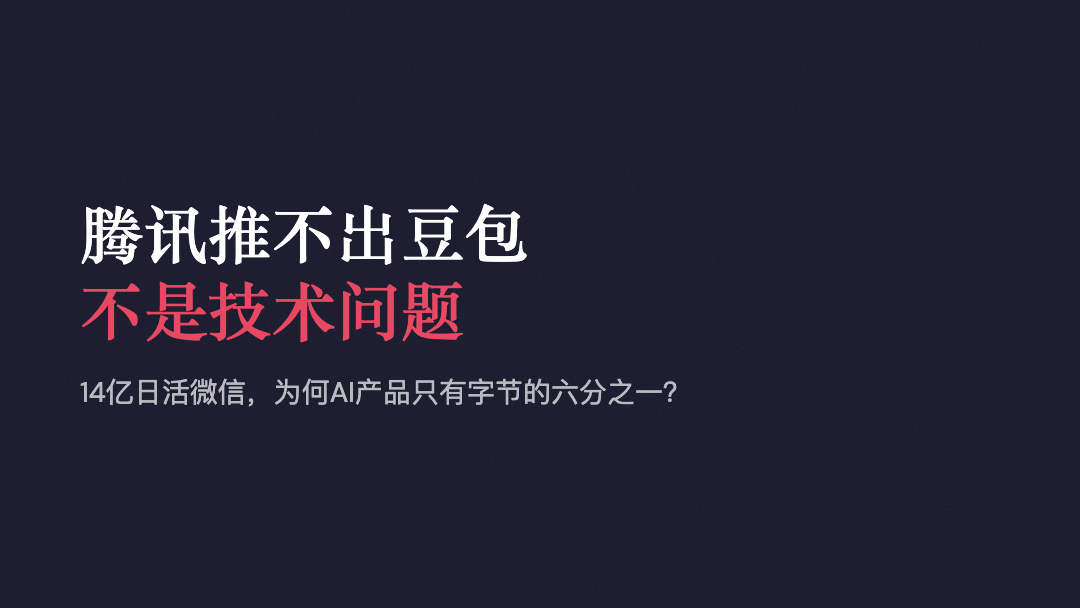
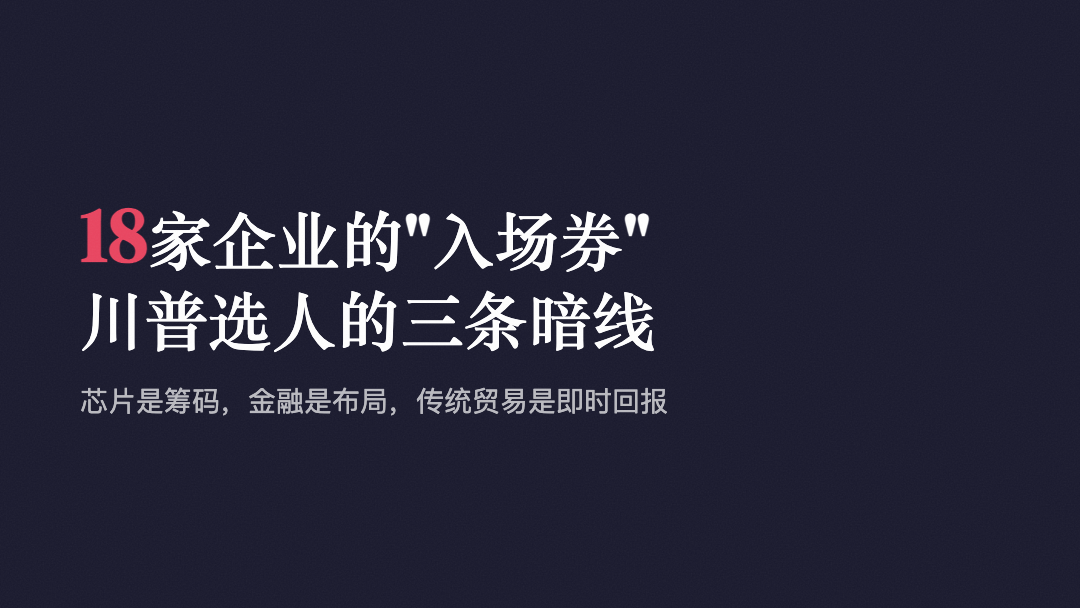
feat：gzh-writes：增加内容加租

Changed region(s): [[0.0611, 0.3438, 0.6111, 0.5938], [0.0611, 0.625, 0.6417, 0.6875]]

diff --git a/docs/gzh/2026-05-19-川普访华18集团暗线.md b/docs/gzh/2026-05-19-川普访华18集团暗线.md
@@ -1,0 +1,36 @@
+---
+title: 18家企业的"入场券"：川普选人的三条暗线
+date: 2026-05-19
+tags: [中美关系, 川普访华, 商业外交, 芯片]
+summary: 川普带谁访华不是随机的，18家企业对应三条谈判暗线，名单本身就是摊开的底牌。
+---
+
+川普选谁坐上访华专机，比他在北京说了什么更重要。
+
+这次随行的18家企业，媒体盯着马斯克和黄仁勋的流量，但真正值得看的是名单的结构——「4家芯片、5家金融、剩下全是传统贸易大户」。这不是一个商业代表团，这是一张摊在谈判桌上的底牌清单。
+
+**第一条暗线：芯片天团是"示好"还是"要价"？**
+
+英伟达、高通、美光、高意，四家半导体企业同时出现。过去三年，美国对中国芯片禁令层层加码，这四家恰恰是禁令中受损最严重的。英伟达被禁止向中国出售高端AI芯片后，黄仁勋多次公开表达不满；美光被中国反制审查，丢掉了数十亿美元订单；高通的中国手机客户正在加速去美国化。
+
+把这四家带来，川普的信号很明确：我手里有你们想要的东西，但得谈条件。**芯片不是礼物，是筹码**。
+
+更耐人寻味的是黄仁勋"临时加入"的细节。川普自己说黄仁勋"没提前申请"就来了——这说明英伟达的焦虑已经到了不请自来的程度。一个万亿市值的公司CEO，愿意当"编外人员"蹭上飞机，足见中国市场对英伟达意味着什么。
+
+**第二条暗线：华尔街来了五个人，不是来旅游的。**
+
+摩根大通戴蒙、高盛、花旗、黑石苏世民、贝莱德芬克——美国金融业的半壁江山坐在了北京。
+
+这个配置对应的是一个很现实的问题：**中国金融开放的节奏和尺度**。外资券商牌照、资管市场准入、跨境资本流动规则，每一项都是几百亿美元级别的生意。苏世民过去十年在中国的布局人尽皆知，芬克的贝莱德刚拿到中国公募牌照不久——这些人来，不是握手拍照，是来盯着具体条款的。
+
+金融巨头的出现还透露另一层意思：华尔街在押注中美不会彻底脱钩。资本永远比政客诚实。
+
+**第三条暗线：波音、埃克森美孚、辉瑞——老生意才是硬通货。**
+
+舆论聚光灯打在科技巨头身上，但波音、埃克森美孚、陶氏化学、辉瑞这些"老面孔"才是中美贸易的压舱石。中国是波音最大的海外市场之一，过去几年空客趁机抢了大量订单；能源合作涉及LNG长协；医药准入关乎辉瑞数百亿的中国销售预期。
+
+这些传统行业代表的入选逻辑很直白：**能立刻签约、能立刻产生贸易数字的，优先上飞机。**川普需要带回可以量化的"成果"，而不是"两国领导人就AI发展交换了意见"这种空话。
+
+所以，这份名单的选人逻辑已经很清楚了：「芯片是谈判筹码，金融是长期布局，传统贸易是即时回报」。三条线各有分工，每一家企业的"入场券"都不是白给的。
+
+问题是：中国这边看到的，也是同一张牌。当对方把底牌摊开了打，这场谈判到底是更容易了，还是更难了？

diff --git a/docs/gzh/2026-05-19-OpenAI马斯克官司.md b/docs/gzh/2026-05-19-OpenAI马斯克官司.md
@@ -1,0 +1,40 @@
+---
+title: 马斯克输了1500亿的官司，他可能从没想赢
+date: 2026-05-19
+tags: [AI, OpenAI, 马斯克, 硅谷]
+summary: 1500亿诉讼90分钟被驳回，但马斯克真正想要的东西已经拿到了
+---
+
+马斯克输了。1500亿美元的世纪诉讼，陪审团只花了90分钟就全票驳回。
+
+90分钟什么概念？不够打完一局Dota 2——讽刺的是，正是2017年OpenAI的AI打赢Dota职业选手那场演示，种下了这场官司的种子。
+
+但你真觉得马斯克在乎这个判决？
+
+**一、他"故意"告晚了**
+
+案子被驳回的理由不是"你说的不对"，而是"你告晚了"。加州法律规定违反慈善信托的诉讼时效是3年，不当得利是2年。OpenAI 2021年就完成了营利化转型，马斯克那时候就知道——他自己发短信给奥特曼说"200亿估值是挂羊头卖狗肉"。然后他等了三年，2024年才起诉。
+
+一个能把火箭送上火星的人，会不知道诉讼时效这种基本法律常识？
+
+「这场官司从第一天起就不是为了赢，而是为了让OpenAI在公众面前被扒一层皮。」
+
+**二、庭审炸出的才是真正的"战利品"**
+
+三周庭审，11天证词，数十位硅谷大佬轮番上阵。这场"注定失败"的诉讼炸出了什么？
+
+Brockman零成本套现**300亿美元**股权，私人日记里赫然写着"什么能让我达到10亿美元"。奥特曼被问"你是否完全值得信任"时没能说出"是"。Murati指控公司内部"混乱与不信任"。甚至OpenAI早期曾考虑用加密货币融资这种荒诞往事都被翻了出来。
+
+这些信息原本锁在保密协议和高管邮箱里。现在，全世界都知道了。
+
+**三、马斯克真正的战场从来不在法庭**
+
+再看他这边的时间线：xAI和SpaceX今年4月秘密提交了IPO申请，合并后估值**1.25万亿美元**；xAI同时训练7个大模型，每月烧10亿美元；Colossus 2超算5月刚签下Anthropic的算力合同，开始对外卖算力。
+
+他需要的不是法院给说法，而是一个公共舞台来论证"OpenAI背叛了初心，我才是AI正义的代言人"。这个叙事，他已经拿到了。
+
+「双方都在输的叙事里找到了赢的筹码。」
+
+判决书签完那天，OpenAI估值8520亿的万亿IPO路障被正式搬走。马斯克"输掉"的这场官司，恰好帮OpenAI扫清了上市最大的法律障碍。
+
+马斯克宣布上诉了。他的律师面对记者只说了一个词："Appeal。"你猜这是为了翻案，还是为了让这场戏再多演几幕？
